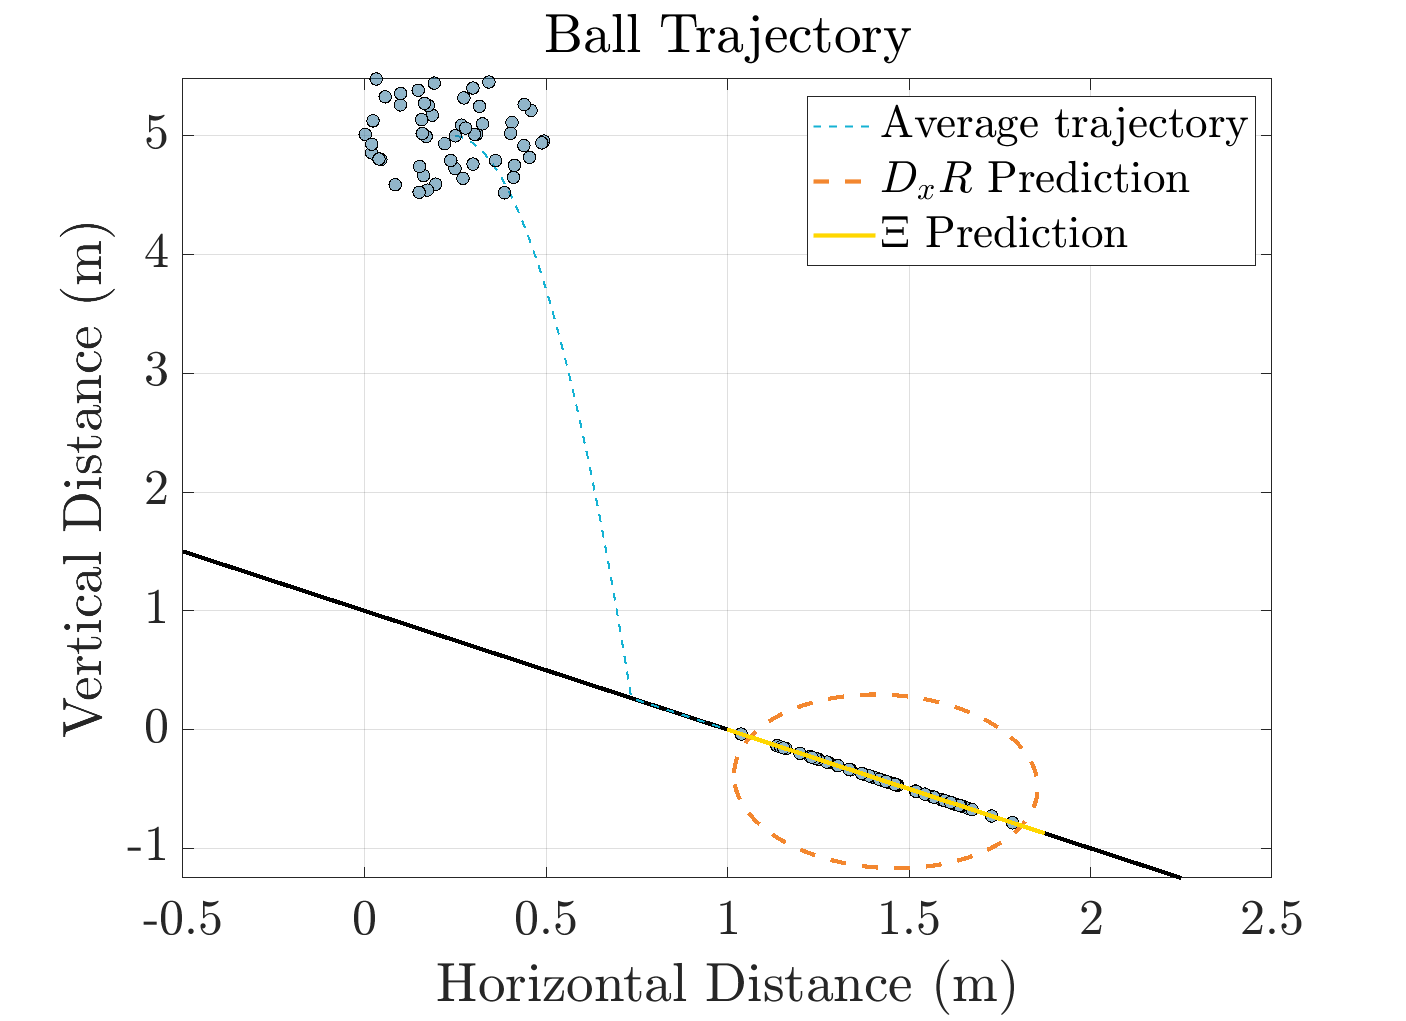
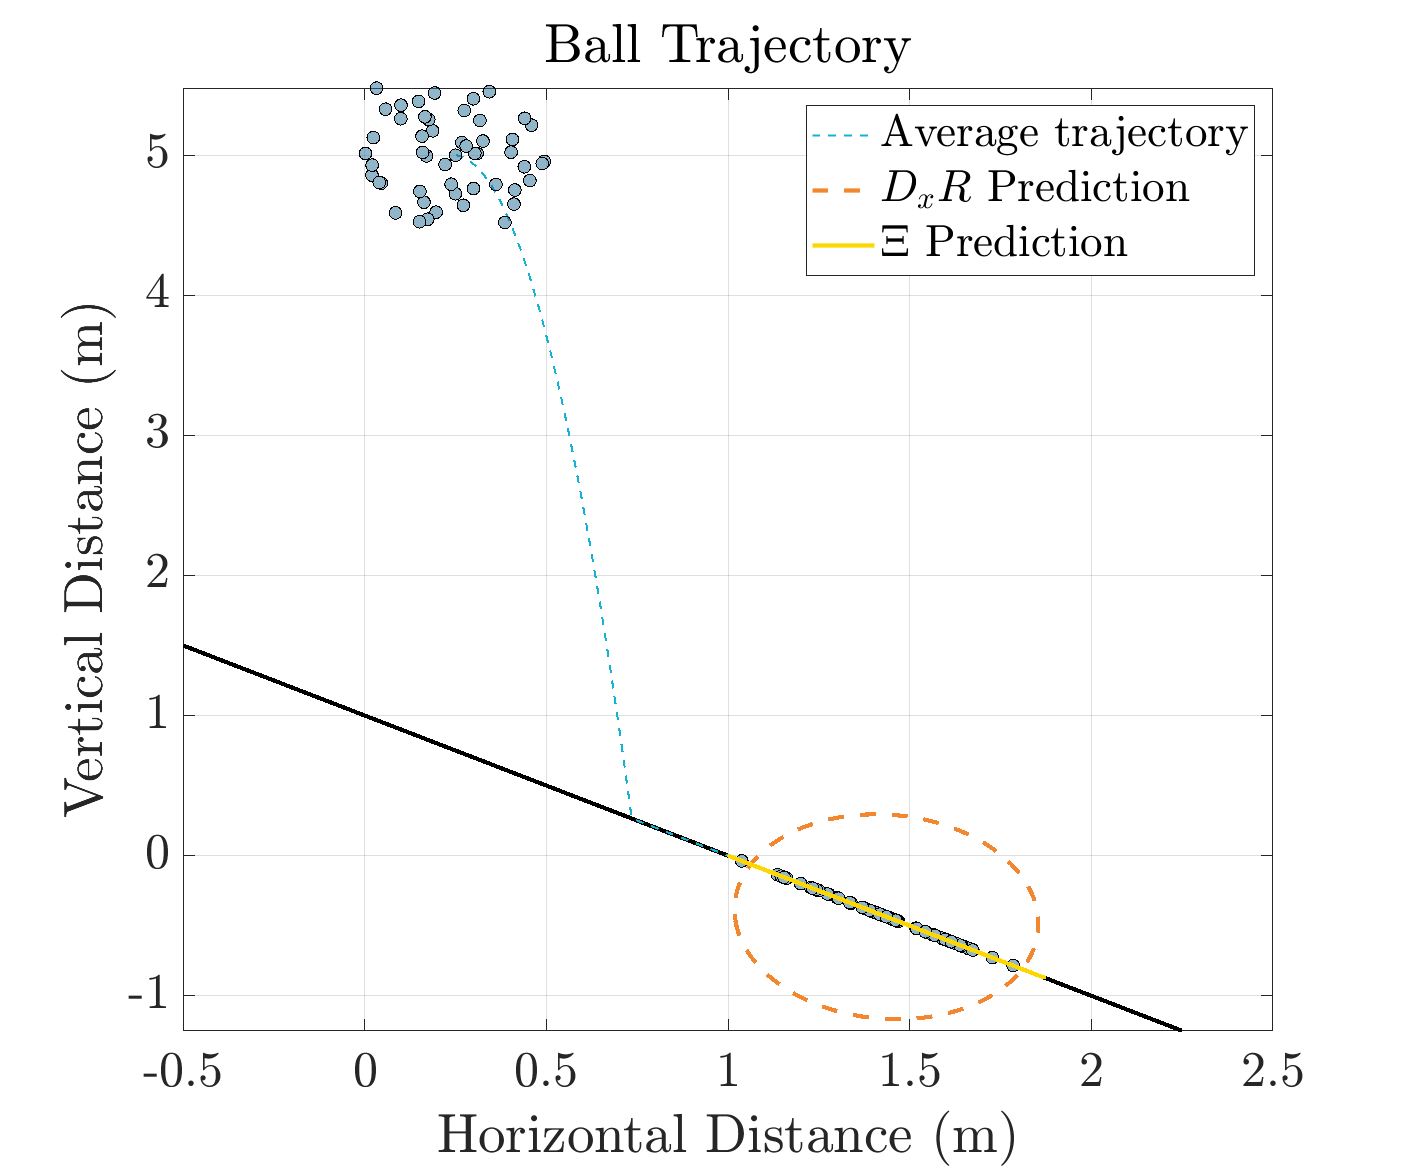
fixed tutorial code bug

diff --git a/Tutorial Paper Code/main.m b/Tutorial Paper Code/main.m
@@ -13,8 +13,8 @@ addpath('Helper Functions')
 %%% mode 2 == Sliding
 %%% mode 3 == Sticking
 
-mode = 1;
-filename = 'default';
+mode = 1;%%%THIS IS THE ONLY LINE YOU SHOULD CHANGE TO RUN PRESET DEMOS%%%%
+
 if mode == 1
     addpath('Dynamics Files\Bouncing')
     filename = "bouncing";
@@ -29,21 +29,30 @@ else
 end
 
 
-rng(10); % fixing seed for reproducability, uncomment if you want random noise
-
-
+rng(10); % fixing seed for reproducability, uncomment if you want truly random noise
 
 % num of simulations to be run
 num_sims = 50;
-
-% x_0 should be a four by one: x = [q1; q2; q1_dot; q2_dot]
-x = 0.25;
-y = 5;
-x_dot = 0.5;
-y_dot = -0.125;
-k = 0.25;
 params = set_params();
-theta = params.theta;
+
+if mode == 1
+    % x_0 should be a two by one in modes 1: x = [q1; q1_dot]
+    theta = 0;
+    x = 2.0;
+    x_dot = 0.0;
+    k = 0.25; %noise sensitivity parameter
+
+else
+    % x_0 should be a four by one in modes 2 and 3: x = [q1; q2; q1_dot; q2_dot]
+    x = 0.25;
+    y = 5;
+    x_dot = 0.5;
+    y_dot = -0.125;
+    k = 0.25;
+    theta = params.theta;
+end
+
+
 
 % u stays empty vector for now, no input for this system
 u = []; 
@@ -57,9 +66,19 @@ orange = [243, 135, 47]/255;
 t_f = 1.1;
 figure;
 y_ground = @(l) 1+tan(-theta)*l;  % Equation for the slanted ground
-fplot(y_ground, [-2, x+2], 'LineStyle', '-', 'Color', 'k', 'LineWidth', 2);
-xlabel('Horizontal Distance (m)');
-ylabel('Vertical Distance (m)');
+
+if mode ~= 1
+    fplot(y_ground, [-2, x+2], 'LineStyle', '-', 'Color', 'k', 'LineWidth', 2);
+end
+
+if mode == 1
+    xlabel('z position (m)');
+    ylabel('z velocity (m/s)');
+else
+    xlabel('Horizontal Distance (m)');
+    ylabel('Vertical Distance (m)');
+end
+
 xlim([-0.5 2.5])
 title('Ball Trajectory');
 grid on;
@@ -71,7 +90,11 @@ for i=1:num_sims
     dx = rand(1, 1)*2 - 1;
     dy = rand(1, 1)*2 - 1;
 
-    x_0 = [x + dx*k; y + dy*k*2; x_dot + dx*k/5; y_dot + dy*k/5];
+    if mode == 1
+        x_0 = [x + dx*k ; x_dot + dx*k/5];
+    else
+        x_0 = [x + dx*k; y + dy*k*2; x_dot + dx*k/5; y_dot + dy*k/5];
+    end
 
     [state_vec, Xi_vec, t_event, t_vec] = simulate(x_0,u,t_f);
   
@@ -88,7 +111,12 @@ hold off;
 % add the mean path
 hold on;
 
-x_0 = [x; y; x_dot; y_dot];
+if mode == 1
+    x_0 = [x; x_dot];
+else
+    x_0 = [x; y; x_dot; y_dot];
+end
+
 [state_vec, Xi_1_vec, Xi_2_vec, t_event, t_vec] = simulate(x_0,u,t_f);
 x_trajectory = state_vec(:, 1);
 y_trajectory = state_vec(:, 2);
@@ -105,49 +133,51 @@ s1.MarkerFaceAlpha = transparency;
 s2.MarkerFaceAlpha = transparency;
 hold off;
 
-% now add the covariances to the plots
-% to do this, we're just going to step forward through the mean trajectory
-% and when a transition happens, we'll apply the saltation matrix
-start_cov = cov(start_states);
-current_cov = start_cov;
-naive_cov = current_cov;
-event = 0; % for debugging
-prev_t = t_vec(1);
-for ii = 1:numel(t_vec)
-    current_time = t_vec(ii);
-    curr_t = current_time;
-    dt = curr_t - prev_t;
-    A = [1 0 dt 0;
-        0 1 0 dt;
-        0 0 1 0;
-        0 0 0 1];
-    current_cov = A*current_cov*A';
-    naive_cov = A*naive_cov*A';
-    if(t_event(1) == current_time)
-        if event == 0
-            salt = Xi_1_vec{1};
-            jac = Xi_2_vec{1};
-            current_cov = salt*current_cov*salt';
-            event = 1;
-        end        
+if mode ~= 1
+    % now add the covariances to the plots
+    % to do this, we're just going to step forward through the mean trajectory
+    % and when a transition happens, we'll apply the saltation matrix
+    start_cov = cov(start_states);
+    current_cov = start_cov;
+    naive_cov = current_cov;
+    event = 0; % for debugging
+    prev_t = t_vec(1);
+    for ii = 1:numel(t_vec)
+        current_time = t_vec(ii);
+        curr_t = current_time;
+        dt = curr_t - prev_t;
+        A = [1 0 dt 0;
+            0 1 0 dt;
+            0 0 1 0;
+            0 0 0 1];
+        current_cov = A*current_cov*A';
+        naive_cov = A*naive_cov*A';
+        if(t_event(1) == current_time)
+            if event == 0
+                salt = Xi_1_vec{1};
+                jac = Xi_2_vec{1};
+                current_cov = salt*current_cov*salt';
+                event = 1;
+            end        
+        end
+        prev_t = curr_t;
     end
-    prev_t = curr_t;
+    end_cov = cov(end_states);
+    
+    hold on
+    e1 = error_ellipse(naive_cov([1,2],[1,2]), state_vec(end, 1:2), 'conf', 0.95);
+    e2 = error_ellipse(current_cov([1,2],[1,2])' + eye(2)*0.0000001, state_vec(end, 1:2), 'conf', 0.95);
+    
+    e1.LineStyle = '--';
+    e1.Color = orange;
+    e1.LineWidth = 2;
+    
+    e2.LineStyle = '-';
+    e2.Color = yellow;
+    e2.LineWidth = 2;
+    
+    legend('','Average trajectory', '', '', '$D_xR$ Prediction', '$\Xi$ Prediction', 'Interpreter', 'latex')
+    hold off
 end
-end_cov = cov(end_states);
-
-hold on
-e1 = error_ellipse(naive_cov([1,2],[1,2]), state_vec(end, 1:2), 'conf', 0.95);
-e2 = error_ellipse(current_cov([1,2],[1,2])' + eye(2)*0.0000001, state_vec(end, 1:2), 'conf', 0.95);
-
-e1.LineStyle = '--';
-e1.Color = orange;
-e1.LineWidth = 2;
-
-e2.LineStyle = '-';
-e2.Color = yellow;
-e2.LineWidth = 2;
-
-legend('','Average trajectory', '', '', '$D_xR$ Prediction', '$\Xi$ Prediction', 'Interpreter', 'latex')
-hold off
 
 saveas(gcf, "Results/" + filename + ".png");
